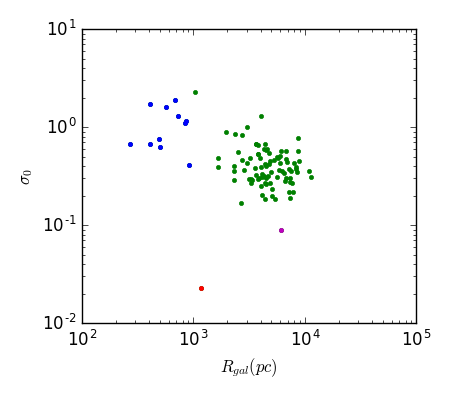
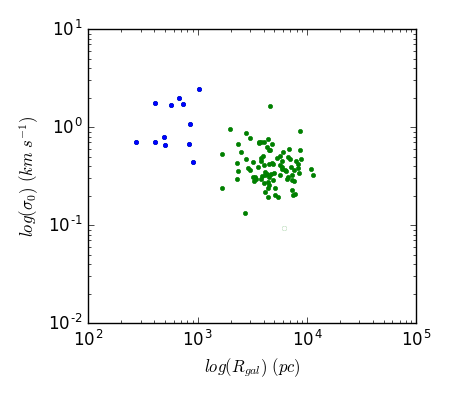
Updated data set

diff --git a/gmc_property_plots.py b/gmc_property_plots.py
@@ -7,7 +7,7 @@ import astropy.units as u
 import powerlaw
 
 #load file
-mytable = Table.read('m100.co10_props_cprops.fits')
+mytable = Table.read('m100.co10.kkms_props_cprops.fits')
 
 ##VARIABLE DEFINITIONS##
 
@@ -34,12 +34,11 @@ sigma0 = mytable['VRMS_EXTRAP_DECONV']/np.sqrt(mytable['RADRMS_EXTRAP_DECONV'])
 M_den = mytable['MASS_EXTRAP']/(np.pi*np.power(mytable['RADRMS_EXTRAP_DECONV'],2)) 
 
 mygalaxy = Galaxy("M100")
-cpropstable = Table.read('m100.co10_props_cprops.fits')
+cpropstable = Table.read('m100.co10.kkms_props_cprops.fits')
 rgal=mygalaxy.radius(ra = cpropstable['XPOS'], dec = cpropstable['YPOS'])
 
 #indexes for low R_gal group 
-index = np.where(rgal.value < 1000)	
-	
+index = np.where(rgal.value < 1100)	
 	
 ##PLOTS##
 
@@ -51,10 +50,10 @@ line1.set_color('k')
 line2.set_linestyle('None')
 line2.set_marker('.')
 plt.loglog(mytable['MASS_EXTRAP'][index],mytable['VIRMASS_EXTRAP_DECONV'][index],marker='.',c='b',linestyle='None')
-plt.loglog(mytable['MASS_EXTRAP'][92],mytable['VIRMASS_EXTRAP_DECONV'][92],marker='.',c='r')
-plt.loglog(mytable['MASS_EXTRAP'][132],mytable['VIRMASS_EXTRAP_DECONV'][132],marker='.',c='m')
-plt.xlabel(r'$M_{\mathrm{lum}}\ (M_{\odot})$') 
-plt.ylabel(r'$M_{\mathrm{vir}}\ (M_{\odot})$')
+plt.loglog(mytable['MASS_EXTRAP'][92],mytable['VIRMASS_EXTRAP_DECONV'][92],marker='.',c='w')
+plt.loglog(mytable['MASS_EXTRAP'][132],mytable['VIRMASS_EXTRAP_DECONV'][132],marker='.',c='w')
+plt.xlabel(r'$log(M_{\mathrm{lum}})\ (M_{\odot})$') 
+plt.ylabel(r'$log(M_{\mathrm{vir}})\ (M_{\odot})$')
 plt.tight_layout() 	
 plt.savefig('MlumMvir_matplotlib.png')
 
@@ -65,11 +64,11 @@ line1.set_linestyle('-')
 line1.set_color('k')
 line2.set_linestyle('None')
 line2.set_marker('.')
-plt.ylabel(r'$\sigma\ (km\ s^{-1})$') 
-plt.xlabel(r'$R\ (pc)$')
+plt.ylabel(r'$log(\sigma)\ (km\ s^{-1})$') 
+plt.xlabel(r'$log(R)\ (pc)$')
 plt.loglog(mytable['RADRMS_EXTRAP_DECONV'][index],mytable['VRMS_EXTRAP_DECONV'][index],marker='.',c='b',linestyle='None')
-plt.loglog(mytable['RADRMS_EXTRAP_DECONV'][92],mytable['VRMS_EXTRAP_DECONV'][92],marker='.',c='r')
-plt.loglog(mytable['RADRMS_EXTRAP_DECONV'][132],mytable['VRMS_EXTRAP_DECONV'][132],marker='.',c='m')
+plt.loglog(mytable['RADRMS_EXTRAP_DECONV'][92],mytable['VRMS_EXTRAP_DECONV'][92],marker='.',c='w')
+plt.loglog(mytable['RADRMS_EXTRAP_DECONV'][132],mytable['VRMS_EXTRAP_DECONV'][132],marker='.',c='w')
 plt.tight_layout() 	
 plt.savefig('LwRad_matplotlib.png')
 
@@ -80,44 +79,45 @@ line1.set_linestyle('-')
 line1.set_color('k')
 line2.set_linestyle('None')
 line2.set_marker('.')
-plt.xlabel(r'$R\ (pc)$') 
-plt.ylabel(r'$M_{\mathrm{lum}}\ (M_{\odot})$')
+plt.xlabel(r'$log(R)\ (pc)$') 
+plt.ylabel(r'$log(M_{\mathrm{lum}})\ (M_{\odot})$')
 plt.loglog(mytable['RADRMS_EXTRAP_DECONV'][index],mytable['MASS_EXTRAP'][index],marker='.',c='b',linestyle='None')
-plt.loglog(mytable['RADRMS_EXTRAP_DECONV'][92],mytable['MASS_EXTRAP'][92],marker='.',c='r')
-plt.loglog(mytable['RADRMS_EXTRAP_DECONV'][132],mytable['MASS_EXTRAP'][132],marker='.',c='m')
+plt.loglog(mytable['RADRMS_EXTRAP_DECONV'][92],mytable['MASS_EXTRAP'][92],marker='.',c='w')
+plt.loglog(mytable['RADRMS_EXTRAP_DECONV'][132],mytable['MASS_EXTRAP'][132],marker='.',c='w')
 plt.tight_layout() 	
 plt.savefig('MlumRad_matplotlib.png')
 
 #Sigma_0 vs Mass Density
 figure = plt.figure(figsize=(4.5,4))
 plt.loglog(M_den,sigma0,marker='.',linestyle='None',c='g')
-plt.xlabel('$M/\pi R^2\ ((M_{\odot})/pc^2)$')
-plt.ylabel('$\sigma_0$')
+#plt.xlabel('$M/\pi R^2\ ((M_{\odot})/pc^2)$')
+plt.xlabel('$log(\Sigma)\ ((M_{\odot})/pc^2)$')
+plt.ylabel('$log(\sigma_0)\ (km\ s^{-1})$')
 plt.loglog(M_den[index],sigma0[index],marker='.',c='b',linestyle='None')
-plt.loglog(M_den[92],sigma0[92],marker='.',c='r')
-plt.loglog(M_den[132],sigma0[132],marker='.',c='m')
+plt.loglog(M_den[92],sigma0[92],marker='.',c='w')
+plt.loglog(M_den[132],sigma0[132],marker='.',c='w')
 plt.tight_layout() 	
 plt.savefig('Sigma0_Mden_matplotlib.png')
 
 #Sigma_0 vs Galactocentric Radii
 figure = plt.figure(figsize=(4.5,4))
 plt.loglog(rgal.to(u.pc),sigma0,marker='.',linestyle='None',c='g')
-plt.xlabel('$R_{gal} (pc)$')
-plt.ylabel('$\sigma_0$')
+plt.xlabel('$log(R_{gal})\ (pc)$')
+plt.ylabel('$log(\sigma_0)\ (km\ s^{-1})$')
 plt.loglog(rgal.to(u.pc)[index],sigma0[index],marker='.',c='b',linestyle='None')
-plt.loglog(rgal.to(u.pc)[92],sigma0[92],marker='.',c='r')
-plt.loglog(rgal.to(u.pc)[132],sigma0[132],marker='.',c='m')
+plt.loglog(rgal.to(u.pc)[92],sigma0[92],marker='.',c='w')
+plt.loglog(rgal.to(u.pc)[132],sigma0[132],marker='.',c='w')
 plt.tight_layout() 	
 plt.savefig('sigma0_Rgal_matplotlib.png')
 
 #X,Y position
 figure = plt.figure(figsize=(4.5,4)) #figure size in inches
 plt.plot(mytable['XPOS'],mytable['YPOS'],linestyle = 'None', marker = '.',c = 'g')
-plt.xlabel('X') 
-plt.ylabel('Y')
+plt.xlabel('X Position') 
+plt.ylabel('Y Position')
 plt.plot(mytable['XPOS'][index],mytable['YPOS'][index],marker='.',c='b',linestyle='None')
-plt.plot(mytable['XPOS'][92],mytable['YPOS'][92],marker='.',c='r')
-plt.plot(mytable['XPOS'][132],mytable['YPOS'][132],marker='.',c='m')
+plt.plot(mytable['XPOS'][92],mytable['YPOS'][92],marker='.',c='w')
+plt.plot(mytable['XPOS'][132],mytable['YPOS'][132],marker='.',c='w')
 plt.tight_layout() 	
 plt.savefig('xypos_matplotlib.png')
 
